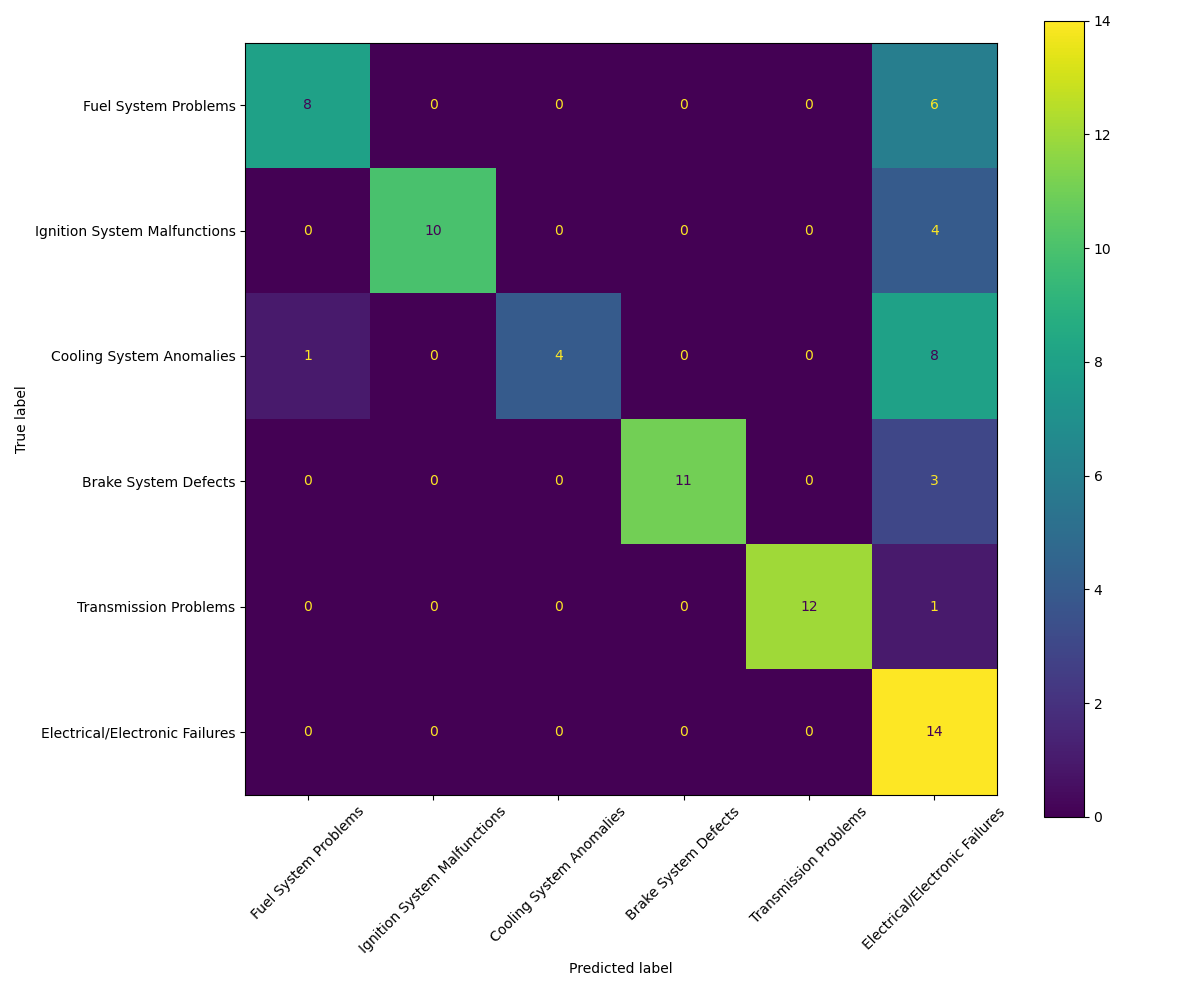
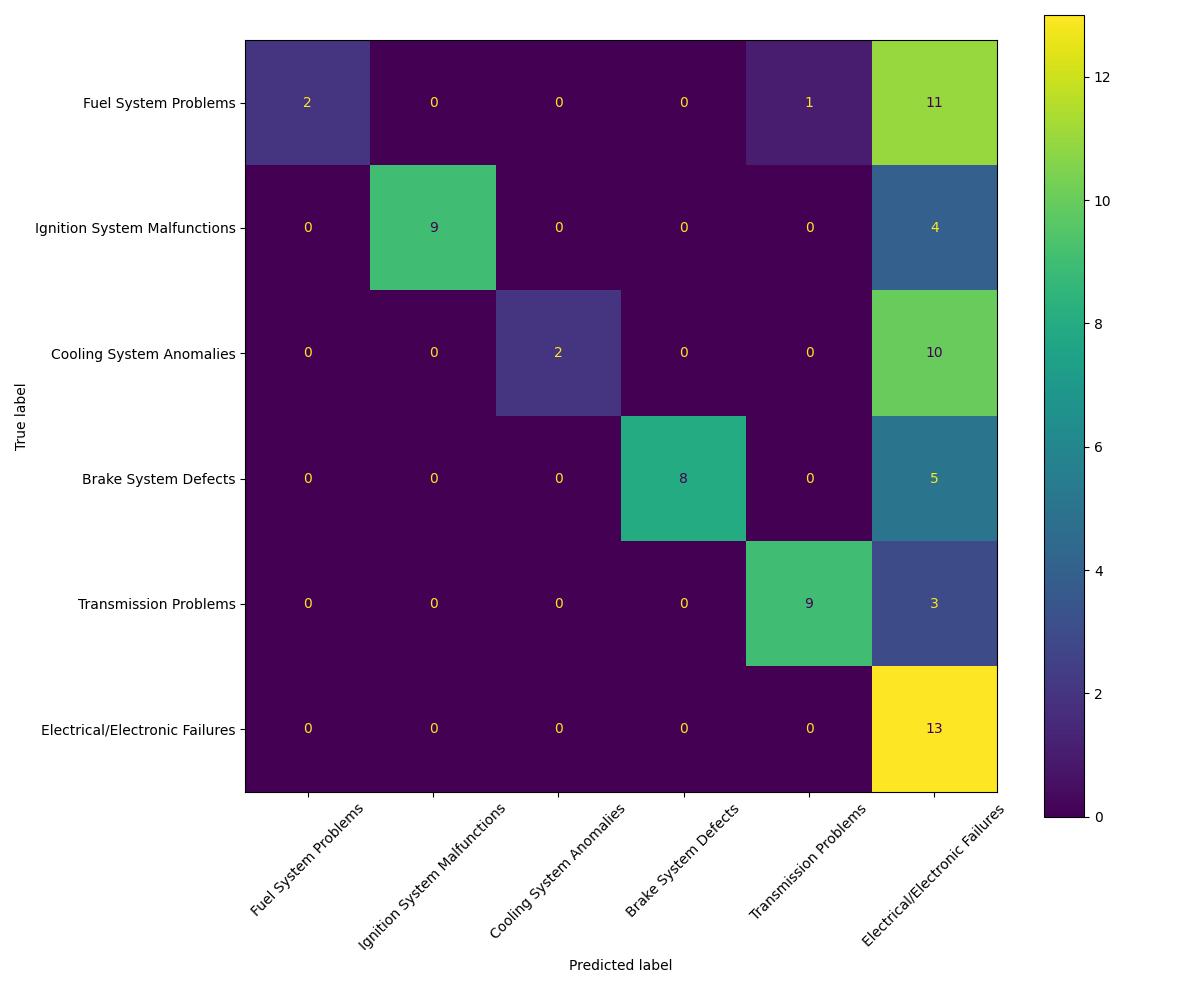
[fix] new test data and fixed cuda issue

diff --git a/finetuning.py b/finetuning.py
@@ -15,6 +15,7 @@ class FineTuningClassifier:
         self.dataset_path = dataset_path
         self.csv_result_file = csv_result_file
 
+        #select best available device
         if torch.backends.mps.is_available():
             self.device = torch.device("mps")
         elif torch.cuda.is_available():
@@ -28,7 +29,7 @@ class FineTuningClassifier:
         self.model = AutoModelForCausalLM.from_pretrained(model_id, torch_dtype=torch.float32).to(self.device).eval()
         self.tokenizer = AutoTokenizer.from_pretrained(model_id)
 
-        # load dataset and set categories
+        # load dataset, examples and set categories
         self.test_df = pd.read_csv(dataset_path)
         self.df_examples = pd.read_csv(examples_path)
         self.categories = [
@@ -40,7 +41,7 @@ class FineTuningClassifier:
             "Electrical/Electronic Failures"
         ]
 
-        if test_mode == "few": #     print(self.test_df.size)
+        if test_mode == "few":
             #Few-shot test with examples given INSIDE the prompt
             self.adjusted_example_pool_size = example_pool_size
 
@@ -76,7 +77,7 @@ class FineTuningClassifier:
         :return:
         """
         prompt = (
-            f"Classify the following automotive failure into one of these categories:\n"
+            f"Classify the following automotive failure into one of these categories: \n"
             f"{', '.join(self.categories)}.\n\n"
         )
         if self.adjusted_example_pool_size > 0:
@@ -85,7 +86,6 @@ class FineTuningClassifier:
                 prompt += f"Failure: {example['phrase']}\nCategory: {example['category']}\n\n"
 
         prompt += f"Failure: {phrase}\nCategory:"
-        print(f"prompt FEW: {prompt}")
         return prompt
 
 
@@ -101,7 +101,6 @@ class FineTuningClassifier:
             f"Failure: {phrase}\nCategory:"
         )
 
-        print(f"prompt ZERO: {prompt}")
 
         return prompt
 
@@ -143,9 +142,6 @@ class FineTuningClassifier:
             case "def":
                 prompt_text = self.build_definitions_prompt(phrase)
 
-        #Zero-shot or Few_shot test with examples
-        # prompt_text = self.build_few_shot_prompt(phrase, self.few_shot_examples)
-        # prompt_text = self.build_zero_shot_prompt(phrase)
 
         messages = [
             [
@@ -226,23 +222,19 @@ class FineTuningClassifier:
 
             print(f"  F1-Score: {f1:.4f}")
 
-            # confusion matrix
-
+        # confusion matrix
         confusion = confusion_matrix(expected_labels, predicted_labels, labels=topics)
 
         disp = ConfusionMatrixDisplay(confusion_matrix=confusion, display_labels=topics)
 
-        # Create a larger figure and pass it to disp.plot()
-        fig, ax = plt.subplots(figsize=(12, 10))  # Adjust the figure size here
+        fig, ax = plt.subplots(figsize=(12, 10))
 
-        disp.plot(ax=ax, xticks_rotation=45)  # Rotate labels for readability,  cmap="Blues"
+        disp.plot(ax=ax, xticks_rotation=45)
 
-        # Optional: Adjust layout
         plt.tight_layout()
 
         base_path="./graphs"
 
-        # Save the figure
         match self.test_mode:
             case "few":
                 plt.savefig(f"{base_path}/Gemma-3-1b-IT_vehicularFailures_few-shot_{self.adjusted_example_pool_size}examples.png")
@@ -251,7 +243,6 @@ class FineTuningClassifier:
             case "def":
                 plt.savefig(f"{base_path}/Gemma-3-1b-IT_vehicularFailures_definitions-test.png")
 
-        # disp.plot().figure_.savefig(f"Gemma-3-1b-IT_vehicularFailures.png")
 
     def log_results_to_csv(self, accuracy, process_time):
         """
@@ -300,13 +291,13 @@ class FineTuningClassifier:
 
 
 if __name__ == "__main__":
-    # snapshot_download(repo_id="google/gemma-3-1b-it") #Use only the first time to install the model locally
+    #snapshot_download(repo_id="google/gemma-3-1b-it") #Use only the first time to install the model locally
     classifier = FineTuningClassifier(
         model_id="google/gemma-3-1b-it",
         dataset_path="dataset.csv",
         examples_path="examples.csv",
         csv_result_file="./accuracy_example_pool_sizes.csv",
-        example_pool_size=0, #number of examples used per category (if higher than available the maximum will be used), used for "zero" mode
+        example_pool_size= 0, #number of examples used per category (if higher than available the maximum will be used), used for "few" mode
         test_mode="def" #choose testing mode: "zero"=zero-shot, "few"=few-shot, "def"=definitions-test
     )
 
